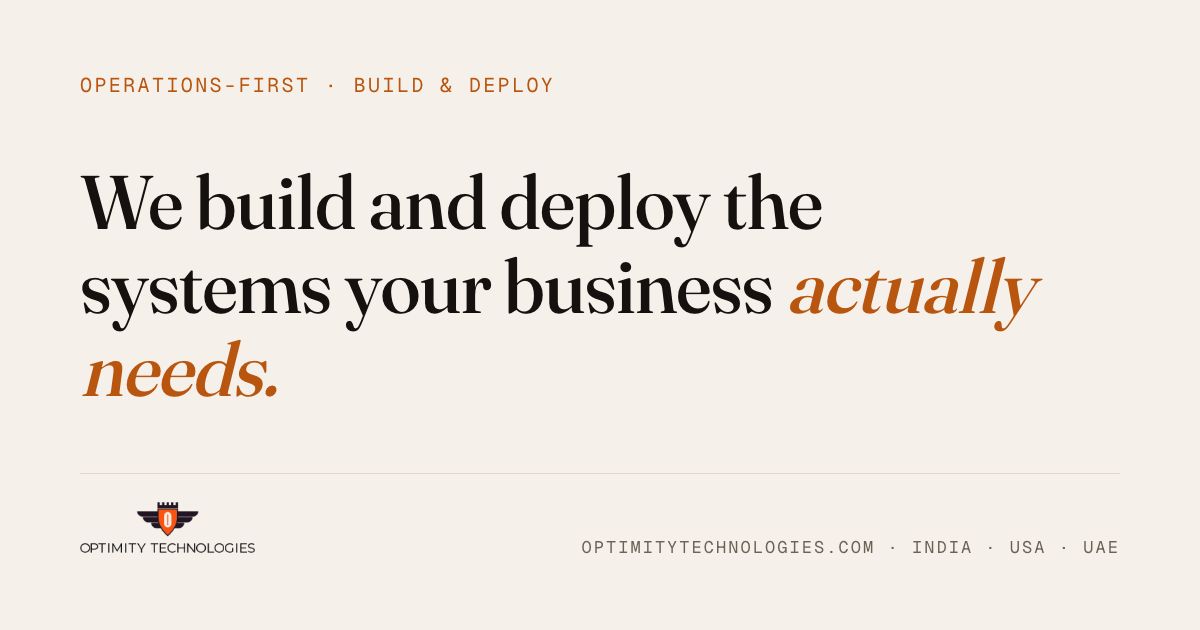
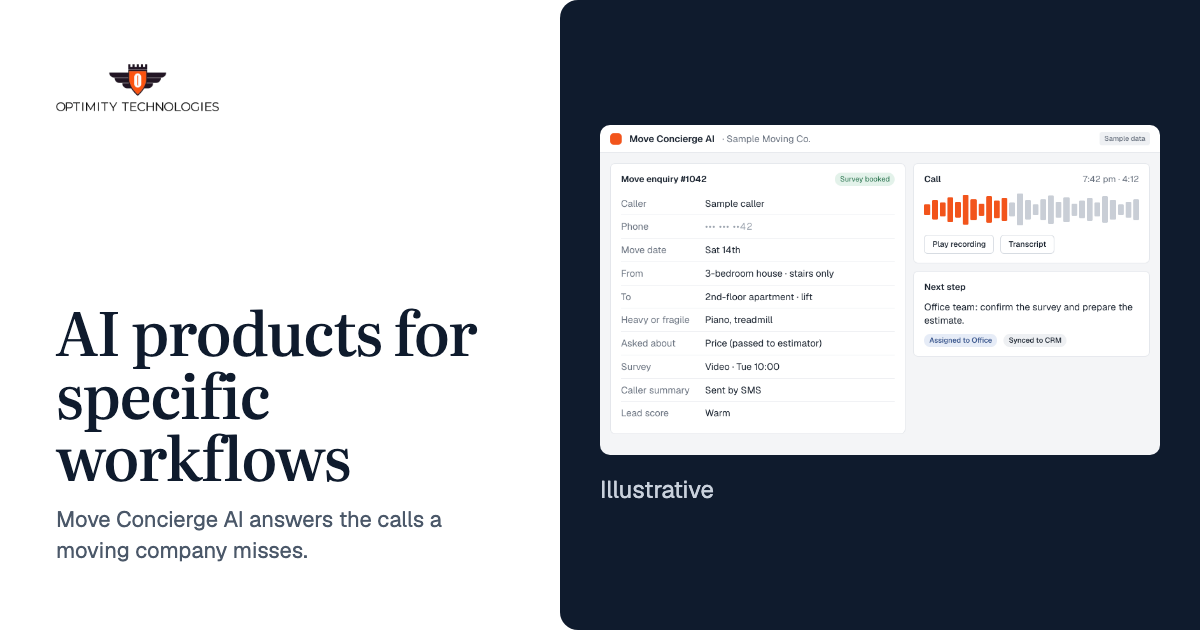
Add labelled product-screen placeholders and a new share image
Ten HTML/CSS mock-ups of the product screens with fictional sample
data, rendered to PNG at 2x, each shown with an Illustrative caption.
PLACEHOLDERS.md lists file, size, where it is used and what replaces it.
og-image.png is rendered from assets/og-src/og-image.html.

diff --git a/assets/products/placeholders/src/mc-enquiry-record.html b/assets/products/placeholders/src/mc-enquiry-record.html
@@ -1,0 +1,41 @@
+<!DOCTYPE html>
+<html lang="en"><head><meta charset="UTF-8">
+<title>mc-enquiry-record (placeholder)</title>
+<link rel="stylesheet" href="_ui.css">
+<style>:root{--w:880px;--h:520px}body{font-size:15px}.panel h2{font-size:14px}.split{display:grid;grid-template-columns:1.25fr 1fr;gap:12px}.side{display:grid;gap:12px;align-content:start}.wave{display:flex;align-items:center;gap:3px;height:56px;margin:4px 0 12px}.wave i{flex:1;background:#C9CED6;border-radius:2px}.wave i:nth-child(-n+11){background:#F2541B}</style>
+</head><body>
+<div class="app">
+  <header class="top"><span class="mark"></span><span class="prod">Move Concierge AI</span><span class="org">· Sample Moving Co.</span><span class="tag">Sample data</span></header>
+  <main class="body">
+    <div class="split">
+      <section class="panel">
+        <h2>Move enquiry #1042 <span class="pill ok">Survey booked</span></h2>
+        <dl class="kv">
+          <div><dt>Caller</dt><dd>Sample caller</dd></div>
+          <div><dt>Phone</dt><dd class="hidden-num">••• ••• ••42</dd></div>
+          <div><dt>Move date</dt><dd>Sat 14th</dd></div>
+          <div><dt>From</dt><dd>3-bedroom house · stairs only</dd></div>
+          <div><dt>To</dt><dd>2nd-floor apartment · lift</dd></div>
+          <div><dt>Heavy or fragile</dt><dd>Piano, treadmill</dd></div>
+          <div><dt>Asked about</dt><dd>Price (passed to estimator)</dd></div>
+          <div><dt>Survey</dt><dd>Video · Tue 10:00</dd></div>
+          <div><dt>Caller summary</dt><dd>Sent by SMS</dd></div>
+          <div><dt>Lead score</dt><dd>Warm</dd></div>
+        </dl>
+      </section>
+      <div class="side">
+        <section class="panel">
+          <h2>Call <span>7:42 pm · 4:12</span></h2>
+          <div class="wave"><i style="height:30%"></i><i style="height:55%"></i><i style="height:40%"></i><i style="height:70%"></i><i style="height:45%"></i><i style="height:85%"></i><i style="height:60%"></i><i style="height:35%"></i><i style="height:75%"></i><i style="height:50%"></i><i style="height:65%"></i><i style="height:40%"></i><i style="height:90%"></i><i style="height:55%"></i><i style="height:30%"></i><i style="height:60%"></i><i style="height:80%"></i><i style="height:45%"></i><i style="height:70%"></i><i style="height:35%"></i><i style="height:50%"></i><i style="height:65%"></i><i style="height:40%"></i><i style="height:75%"></i><i style="height:55%"></i><i style="height:30%"></i><i style="height:45%"></i><i style="height:60%"></i></div>
+          <div class="row small"><span class="btn ghost">Play recording</span><span class="btn ghost">Transcript</span></div>
+        </section>
+        <section class="panel">
+          <h2>Next step</h2>
+          <p>Office team: confirm the survey and prepare the estimate.</p>
+          <div class="row small" style="margin-top:10px"><span class="pill person">Assigned to Office</span><span class="pill">Synced to CRM</span></div>
+        </section>
+      </div>
+    </div>
+  </main>
+</div>
+</body></html>

diff --git a/assets/products/placeholders/src/_ui.css b/assets/products/placeholders/src/_ui.css
@@ -1,0 +1,37 @@
+/* Shared look for the placeholder product screens. Not loaded by the site:
+   each screen is rendered to PNG at 2x with the gstack browse tool (see ../PLACEHOLDERS.md). */
+@import url('https://fonts.googleapis.com/css2?family=Geist:wght@400;500;600&display=swap');
+* { box-sizing: border-box; margin: 0; padding: 0; }
+html, body { width: var(--w); height: var(--h); overflow: hidden; }
+body { font: 14px/1.45 Geist, system-ui, sans-serif; color: #1B2430; background: #F4F5F7; -webkit-font-smoothing: antialiased; }
+.app { display: grid; grid-template-rows: 44px 1fr; height: 100%; }
+.top { display: flex; align-items: center; gap: 12px; padding: 0 16px; background: #FFFFFF; border-bottom: 1px solid #E3E6EB; }
+.top .prod { font-weight: 600; }
+.top .org { color: #6A7380; }
+.top .tag { margin-left: auto; font-size: 11px; font-weight: 500; color: #6A7380; background: #EEF0F3; border-radius: 4px; padding: 3px 7px; }
+.mark { width: 18px; height: 18px; border-radius: 5px; background: #F2541B; }
+.body { padding: 16px; display: grid; gap: 12px; align-content: start; }
+.panel { background: #FFFFFF; border: 1px solid #E3E6EB; border-radius: 8px; padding: 14px 16px; }
+.panel h2 { font-size: 13px; font-weight: 600; color: #1B2430; margin-bottom: 10px; display: flex; justify-content: space-between; align-items: center; gap: 12px; }
+.panel h2 span { font-weight: 400; color: #6A7380; }
+.muted { color: #6A7380; }
+.small { font-size: 12px; }
+.row { display: flex; align-items: center; gap: 10px; }
+.pill { display: inline-block; font-size: 11.5px; font-weight: 500; padding: 2px 8px; border-radius: 999px; background: #EEF0F3; color: #1B2430; white-space: nowrap; }
+.pill.ok { background: #E3F2EA; color: #1D6B44; }
+.pill.warn { background: #FCEBDD; color: #9A4310; }
+.pill.ai { background: #FDE7DE; color: #A8370F; }
+.pill.person { background: #E6ECF7; color: #2E4C86; }
+dl.kv { display: grid; grid-template-columns: 132px 1fr; }
+dl.kv dt, dl.kv dd { padding: 7px 0; border-bottom: 1px solid #EEF0F3; }
+dl.kv dt { color: #6A7380; }
+dl.kv div:last-child dt, dl.kv div:last-child dd { border-bottom: 0; }
+dl.kv div { display: contents; }
+table { width: 100%; border-collapse: collapse; font-variant-numeric: tabular-nums; }
+th, td { text-align: left; padding: 8px 6px; border-bottom: 1px solid #EEF0F3; vertical-align: top; }
+th { font-weight: 500; color: #6A7380; font-size: 12px; }
+.num { text-align: right; }
+.hl { background: #FFF4EE; }
+.btn { display: inline-flex; align-items: center; height: 30px; padding: 0 12px; border-radius: 6px; font-weight: 500; font-size: 12.5px; background: #1B2430; color: #FFFFFF; }
+.btn.ghost { background: #FFFFFF; color: #1B2430; border: 1px solid #D5DAE1; }
+.hidden-num { letter-spacing: 1px; color: #9AA2AD; }

diff --git a/assets/products/placeholders/src/mc-survey-booked.html b/assets/products/placeholders/src/mc-survey-booked.html
@@ -1,0 +1,30 @@
+<!DOCTYPE html>
+<html lang="en"><head><meta charset="UTF-8">
+<title>mc-survey-booked (placeholder)</title>
+<link rel="stylesheet" href="_ui.css">
+<style>:root{--w:720px;--h:440px}.split{display:grid;grid-template-columns:1.2fr 1fr;gap:12px;height:100%}.cal{display:grid;gap:6px}.cal p{display:grid;grid-template-columns:44px 1fr;gap:8px;align-items:start}.cal span{color:#6A7380;font-size:12px;padding-top:7px}.cal em{font-style:normal;display:block;padding:7px 10px;border-radius:6px;background:#F4F5F7}.cal em.busy{color:#6A7380}.cal em.free{background:#FFFFFF;border:1px dashed #D5DAE1;color:#9AA2AD}.cal .on em{background:#FDE7DE;color:#7A2A0B;font-weight:500}.cal small{display:block;font-weight:400;font-size:11.5px;color:#A8370F}.bubble{background:#EEF0F3;border-radius:14px 14px 14px 4px;padding:12px 14px;line-height:1.5}</style>
+</head><body>
+<div class="app">
+  <header class="top"><span class="mark"></span><span class="prod">Move Concierge AI</span><span class="org">· Sample Moving Co.</span><span class="tag">Sample data</span></header>
+  <main class="body">
+    <div class="split">
+      <section class="panel">
+        <h2>Estimator calendar <span>Tue</span></h2>
+        <div class="cal">
+          <p><span>9:00</span><em class="busy">On-site survey</em></p>
+          <p class="on"><span>10:00</span><em>Video survey · enquiry #1042<small>Booked by Move Concierge</small></em></p>
+          <p><span>11:00</span><em class="free">Free</em></p>
+          <p><span>12:00</span><em class="busy">Lunch</em></p>
+          <p><span>13:00</span><em class="free">Free</em></p>
+          <p><span>14:00</span><em class="busy">On-site survey</em></p>
+          <p><span>16:00</span><em class="free">Free</em></p>
+        </div>
+      </section>
+      <section class="panel phone">
+        <h2>SMS to caller <span>7:46 pm</span></h2>
+        <div class="bubble">Thanks for calling Sample Moving Co. Your video survey is booked for Tuesday at 10:00. An estimator will go through the move with you and give you a price.</div>
+      </section>
+    </div>
+  </main>
+</div>
+</body></html>

diff --git a/assets/products/placeholders/src/nexus-answer-table.html b/assets/products/placeholders/src/nexus-answer-table.html
@@ -1,0 +1,26 @@
+<!DOCTYPE html>
+<html lang="en"><head><meta charset="UTF-8">
+<title>nexus-answer-table (placeholder)</title>
+<link rel="stylesheet" href="_ui.css">
+<style>:root{--w:720px;--h:500px}.q{display:flex;gap:10px;align-items:center;border:1px solid #D5DAE1;border-radius:8px;padding:10px 12px}.bars{display:flex;align-items:flex-end;gap:10px;height:110px;margin-top:16px}.bars i{flex:1;background:#1B2430;border-radius:2px 2px 0 0}.bars i.hi{background:#F2541B}.lbl{display:flex;gap:10px;margin-top:6px;color:#6A7380;font-size:12px}.lbl span{flex:1;text-align:center}</style>
+</head><body>
+<div class="app">
+  <header class="top"><span class="mark"></span><span class="prod">Nexus AI</span><span class="org">· Sample Distribution Co.</span><span class="tag">Sample data</span></header>
+  <main class="body">
+    <section class="panel">
+      <div class="q"><span class="mark"></span>Which invoices are more than 30 days overdue?</div>
+      <p class="muted small" style="margin:10px 0 6px">Answered by <b style="color:#1B2430">SmartOps</b> · from ERPNext</p>
+      <table>
+        <thead><tr><th>Invoice</th><th>Due</th><th class="num">Days late</th><th class="num">Balance</th></tr></thead>
+        <tbody>
+          <tr><td>SINV-0418</td><td>02 Sep</td><td class="num">47</td><td class="num">4,820.00</td></tr>
+          <tr><td>SINV-0431</td><td>09 Sep</td><td class="num">40</td><td class="num">1,265.50</td></tr>
+          <tr><td>SINV-0457</td><td>15 Sep</td><td class="num">34</td><td class="num">9,310.00</td></tr>
+        </tbody>
+      </table>
+      <div class="bars"><i class="hi" style="height:96%"></i><i style="height:48%"></i><i style="height:3%"></i><i style="height:3%"></i></div>
+      <div class="lbl"><span>31–40 d</span><span>41–50 d</span><span>51–60 d</span><span>60+ d</span></div>
+    </section>
+  </main>
+</div>
+</body></html>

diff --git a/assets/products/placeholders/src/mc-incoming-call.html b/assets/products/placeholders/src/mc-incoming-call.html
@@ -1,0 +1,28 @@
+<!DOCTYPE html>
+<html lang="en"><head><meta charset="UTF-8">
+<title>mc-incoming-call (placeholder)</title>
+<link rel="stylesheet" href="_ui.css">
+<style>:root{--w:720px;--h:420px}</style>
+</head><body>
+<div class="app">
+  <header class="top"><span class="mark"></span><span class="prod">Move Concierge AI</span><span class="org">· Sample Moving Co.</span><span class="tag">Sample data</span></header>
+  <main class="body">
+    <section class="panel">
+      <h2>Calls today <span>Mon · all lines</span></h2>
+      <table>
+        <thead><tr><th>Time</th><th>Caller</th><th>Handled by</th><th>Why</th><th class="num">Length</th></tr></thead>
+        <tbody>
+          <tr><td>5:58 pm</td><td class="hidden-num">••• ••• ••12</td><td><span class="pill person">Office</span></td><td class="muted">—</td><td class="num">6:40</td></tr>
+          <tr><td>6:31 pm</td><td class="hidden-num">••• ••• ••87</td><td><span class="pill ai">Move Concierge</span></td><td class="muted">All lines busy</td><td class="num">3:05</td></tr>
+          <tr class="hl"><td><b>7:42 pm</b></td><td class="hidden-num">••• ••• ••42</td><td><span class="pill ai">Move Concierge</span></td><td><b>After hours</b></td><td class="num"><b>4:12</b></td></tr>
+          <tr><td>8:15 pm</td><td class="hidden-num">••• ••• ••09</td><td><span class="pill ai">Move Concierge</span></td><td class="muted">After hours</td><td class="num">1:48</td></tr>
+        </tbody>
+      </table>
+    </section>
+    <section class="panel">
+      <h2>7:42 pm call <span>in progress → enquiry #1042</span></h2>
+      <div class="row small"><span class="pill ok">Answered</span><span class="muted">Routed after hours from your main number. Recording and transcript on.</span></div>
+    </section>
+  </main>
+</div>
+</body></html>

diff --git a/assets/products/placeholders/src/mc-team-handoff.html b/assets/products/placeholders/src/mc-team-handoff.html
@@ -1,0 +1,27 @@
+<!DOCTYPE html>
+<html lang="en"><head><meta charset="UTF-8">
+<title>mc-team-handoff (placeholder)</title>
+<link rel="stylesheet" href="_ui.css">
+<style>:root{--w:720px;--h:480px}.mail .hdr{display:grid;gap:4px;padding-bottom:12px;margin-bottom:6px;border-bottom:1px solid #EEF0F3}.mail .hdr p{display:grid;grid-template-columns:44px 1fr;gap:8px}.mail .hdr p:last-child{display:block;margin-top:6px;font-size:15px}.flag{margin-top:12px;padding:10px 12px;border-radius:6px;background:#FFF7EF;line-height:1.5}</style>
+</head><body>
+<div class="app">
+  <header class="top"><span class="mark"></span><span class="prod">Move Concierge AI</span><span class="org">· Sample Moving Co.</span><span class="tag">Sample data</span></header>
+  <main class="body">
+    <section class="panel mail">
+      <div class="hdr">
+        <p><span class="muted">From</span>Move Concierge AI</p>
+        <p><span class="muted">To</span>Office team</p>
+        <p><b>New move enquiry #1042 · video survey Tue 10:00</b></p>
+      </div>
+      <dl class="kv">
+        <div><dt>Move</dt><dd>Sat 14th · 3-bedroom house → 2nd-floor apartment</dd></div>
+        <div><dt>Access</dt><dd>Stairs at pickup, lift at delivery</dd></div>
+        <div><dt>Heavy or fragile</dt><dd>Piano, treadmill</dd></div>
+        <div><dt>Survey</dt><dd>Video · Tue 10:00 · in your calendar</dd></div>
+      </dl>
+      <div class="flag"><span class="pill warn">Needs a person</span> Caller asked whether you can store furniture for two weeks between moves. Move Concierge did not answer this.</div>
+      <div class="row small" style="margin-top:12px"><span class="btn">Open enquiry</span><span class="btn ghost">Recording</span><span class="btn ghost">Transcript</span></div>
+    </section>
+  </main>
+</div>
+</body></html>

diff --git a/assets/products/placeholders/src/mc-morning-summary.html b/assets/products/placeholders/src/mc-morning-summary.html
@@ -1,0 +1,29 @@
+<!DOCTYPE html>
+<html lang="en"><head><meta charset="UTF-8">
+<title>mc-morning-summary (placeholder)</title>
+<link rel="stylesheet" href="_ui.css">
+<style>:root{--w:720px;--h:460px}.stats{display:grid;grid-template-columns:repeat(4,1fr);gap:8px}.stats p{background:#F4F5F7;border-radius:6px;padding:10px 12px;color:#6A7380;font-size:12.5px}.stats b{display:block;font-size:26px;font-weight:500;color:#1B2430;font-variant-numeric:tabular-nums}</style>
+</head><body>
+<div class="app">
+  <header class="top"><span class="mark"></span><span class="prod">Move Concierge AI</span><span class="org">· Sample Moving Co.</span><span class="tag">Sample data</span></header>
+  <main class="body">
+    <section class="panel">
+      <h2>Overnight summary <span>Mon 6 pm – Tue 8 am</span></h2>
+      <div class="stats">
+        <p><b>6</b>enquiries</p><p><b>3</b>surveys booked</p><p><b>2</b>callbacks due</p><p><b>1</b>passed to a person</p>
+      </div>
+    </section>
+    <section class="panel">
+      <h2>Needs your team this morning</h2>
+      <table>
+        <tbody>
+          <tr><td><span class="pill warn">Call back</span></td><td>Enquiry #1045 · move date not decided yet</td><td class="muted num">9:10 pm</td></tr>
+          <tr><td><span class="pill warn">Call back</span></td><td>Enquiry #1047 · asked to speak to the owner</td><td class="muted num">10:32 pm</td></tr>
+          <tr><td><span class="pill person">Person</span></td><td>Enquiry #1042 · storage between moves</td><td class="muted num">7:42 pm</td></tr>
+          <tr><td><span class="pill ok">Booked</span></td><td>Enquiries #1042, #1043, #1046 · surveys in calendar</td><td class="muted num">—</td></tr>
+        </tbody>
+      </table>
+    </section>
+  </main>
+</div>
+</body></html>

diff --git a/assets/products/placeholders/src/mc-call-transcript.html b/assets/products/placeholders/src/mc-call-transcript.html
@@ -1,0 +1,25 @@
+<!DOCTYPE html>
+<html lang="en"><head><meta charset="UTF-8">
+<title>mc-call-transcript (placeholder)</title>
+<link rel="stylesheet" href="_ui.css">
+<style>:root{--w:720px;--h:400px}.tr{display:grid;gap:9px}.tr p{display:grid;grid-template-columns:118px 1fr;gap:10px}.tr b{font-weight:500;color:#6A7380}.tr .ai b{color:#A8370F}</style>
+</head><body>
+<div class="app">
+  <header class="top"><span class="mark"></span><span class="prod">Move Concierge AI</span><span class="org">· Sample Moving Co.</span><span class="tag">Sample data</span></header>
+  <main class="body">
+    <section class="panel">
+      <h2>Transcript <span>7:42 pm · 4:12 · enquiry #1042</span></h2>
+      <div class="tr">
+        <p><b>Caller</b><span>Hi, we're moving a three-bedroom house on the 14th.</span></p>
+        <p class="ai"><b>Move Concierge</b><span>Thanks. Where are you moving from, and where to?</span></p>
+        <p><b>Caller</b><span>From our house across town to a second-floor apartment.</span></p>
+        <p class="ai"><b>Move Concierge</b><span>Is there a lift at the new place? And stairs at the house?</span></p>
+        <p><b>Caller</b><span>Lift at the new one, stairs at ours. And we have a piano.</span></p>
+        <p class="ai"><b>Move Concierge</b><span>Noted: piano, stairs at pickup. Any artwork, gym equipment or a safe?</span></p>
+        <p><b>Caller</b><span>A treadmill. How much will it cost?</span></p>
+        <p class="ai"><b>Move Concierge</b><span>An estimator will give you a price after a short survey. I can book a video survey on Tuesday at 10 or at 4.</span></p>
+      </div>
+    </section>
+  </main>
+</div>
+</body></html>

diff --git a/assets/og-src/og-image.html b/assets/og-src/og-image.html
@@ -1,0 +1,19 @@
+<!DOCTYPE html>
+<html lang="en"><head><meta charset="UTF-8"><title>og-image source</title>
+<!-- Source for /og-image.png (1200x630). Render with the gstack browse tool at scale 1; not part of the public site. -->
+<link href="https://fonts.googleapis.com/css2?family=Geist:wght@400;500&family=Literata:opsz,wght@7..72,500&display=swap" rel="stylesheet">
+<style>
+*{box-sizing:border-box;margin:0;padding:0}
+html,body{width:1200px;height:630px;overflow:hidden}
+body{display:grid;grid-template-columns:560px 640px;background:#FFFFFF;font-family:Geist,sans-serif;color:#0F1B2D}
+.l{padding:64px 56px;display:flex;flex-direction:column;justify-content:space-between}
+.l img{height:52px;width:auto;align-self:flex-start}
+h1{font-family:Literata,serif;font-weight:500;font-size:60px;line-height:1.04;letter-spacing:-.015em}
+p{font-size:22px;line-height:1.4;color:#4B5869;margin-top:18px}
+.r{background:#0F1B2D;border-radius:18px 0 0 18px;display:grid;place-items:center;padding:40px}
+.r img{width:100%;border-radius:10px}
+.r span{display:block;color:#C9D1DC;font-size:24px;margin-top:14px}
+</style></head><body>
+<div class="l"><img src="../../logo_lightmode.png" alt=""><div><h1>AI products for specific workflows</h1><p>Move Concierge AI answers the calls a moving company misses.</p></div></div>
+<div class="r"><div><img src="../products/placeholders/mc-enquiry-record.png" alt=""><span>Illustrative</span></div></div>
+</body></html>

diff --git a/assets/products/placeholders/src/nexus-doc-answer.html b/assets/products/placeholders/src/nexus-doc-answer.html
@@ -1,0 +1,18 @@
+<!DOCTYPE html>
+<html lang="en"><head><meta charset="UTF-8">
+<title>nexus-doc-answer (placeholder)</title>
+<link rel="stylesheet" href="_ui.css">
+<style>:root{--w:720px;--h:320px}.q{display:flex;gap:10px;align-items:center;border:1px solid #D5DAE1;border-radius:8px;padding:10px 12px}.cite{margin-top:14px;padding:12px 14px;border-radius:6px;background:#F4F5F7;line-height:1.5}.cite span{display:block;margin-top:6px;color:#6A7380;font-size:12px}</style>
+</head><body>
+<div class="app">
+  <header class="top"><span class="mark"></span><span class="prod">Nexus AI</span><span class="org">· Sample Distribution Co.</span><span class="tag">Sample data</span></header>
+  <main class="body">
+    <section class="panel">
+      <div class="q"><span class="mark"></span>What are the late payment terms in the supplier agreement?</div>
+      <p class="muted small" style="margin:10px 0 8px">Answered by <b style="color:#1B2430">DocIntellect</b> · from Documents</p>
+      <p style="font-size:15px;line-height:1.55">Payment is due 30 days from invoice. After 45 days a 1.5% monthly late fee applies, and the supplier may pause priority support.</p>
+      <div class="cite">“…late fee of 1.5% per month on balances unpaid after 45 days…”<span>Supplier agreement (sample document) · section 4.2 · page 3</span></div>
+    </section>
+  </main>
+</div>
+</body></html>

diff --git a/assets/products/placeholders/src/pc-tour-briefing.html b/assets/products/placeholders/src/pc-tour-briefing.html
@@ -1,0 +1,24 @@
+<!DOCTYPE html>
+<html lang="en"><head><meta charset="UTF-8">
+<title>pc-tour-briefing (placeholder)</title>
+<link rel="stylesheet" href="_ui.css">
+<style>:root{--w:720px;--h:380px}.brief{font-size:15.5px;line-height:1.55;padding:6px 0 2px}</style>
+</head><body>
+<div class="app">
+  <header class="top"><span class="mark"></span><span class="prod">Property Connect AI</span><span class="org">· Sample Realty</span><span class="tag">Sample data</span></header>
+  <main class="body">
+    <section class="panel">
+      <h2>Briefing for the agent <span>heard before the buyer joins</span></h2>
+      <p class="brief">“New web lead for the 3-bed listing. Pre-approved, wants to move within three months, also selling their current home. Tour booked for Saturday at 11. Connecting you now.”</p>
+    </section>
+    <section class="panel">
+      <h2>Tour <span>Sat</span></h2>
+      <dl class="kv">
+        <div><dt>Time</dt><dd>11:00 · 45 min</dd></div>
+        <div><dt>Invite</dt><dd>SMS with directions and the agent's contact card</dd></div>
+        <div><dt>Synced to</dt><dd>CRM record for lead #2207</dd></div>
+      </dl>
+    </section>
+  </main>
+</div>
+</body></html>

diff --git a/assets/products/placeholders/src/pc-lead-record.html b/assets/products/placeholders/src/pc-lead-record.html
@@ -1,0 +1,25 @@
+<!DOCTYPE html>
+<html lang="en"><head><meta charset="UTF-8">
+<title>pc-lead-record (placeholder)</title>
+<link rel="stylesheet" href="_ui.css">
+<style>:root{--w:720px;--h:440px}</style>
+</head><body>
+<div class="app">
+  <header class="top"><span class="mark"></span><span class="prod">Property Connect AI</span><span class="org">· Sample Realty</span><span class="tag">Sample data</span></header>
+  <main class="body">
+    <section class="panel">
+      <h2>Web lead #2207 <span class="pill ok">Tour booked</span></h2>
+      <dl class="kv">
+        <div><dt>Form submitted</dt><dd>10:02:14</dd></div>
+        <div><dt>Called back</dt><dd>10:02:51 · under a minute</dd></div>
+        <div><dt>Listing</dt><dd>Sample listing · 3 bed, 2 bath</dd></div>
+        <div><dt>Pre-approved</dt><dd>Yes</dd></div>
+        <div><dt>Timeline</dt><dd>3 months</dd></div>
+        <div><dt>Also selling</dt><dd>Yes, current home</dd></div>
+        <div><dt>Tour</dt><dd>Sat 11:00 · in agent's calendar</dd></div>
+        <div><dt>Agent</dt><dd>Warm transfer after briefing</dd></div>
+      </dl>
+    </section>
+  </main>
+</div>
+</body></html>
